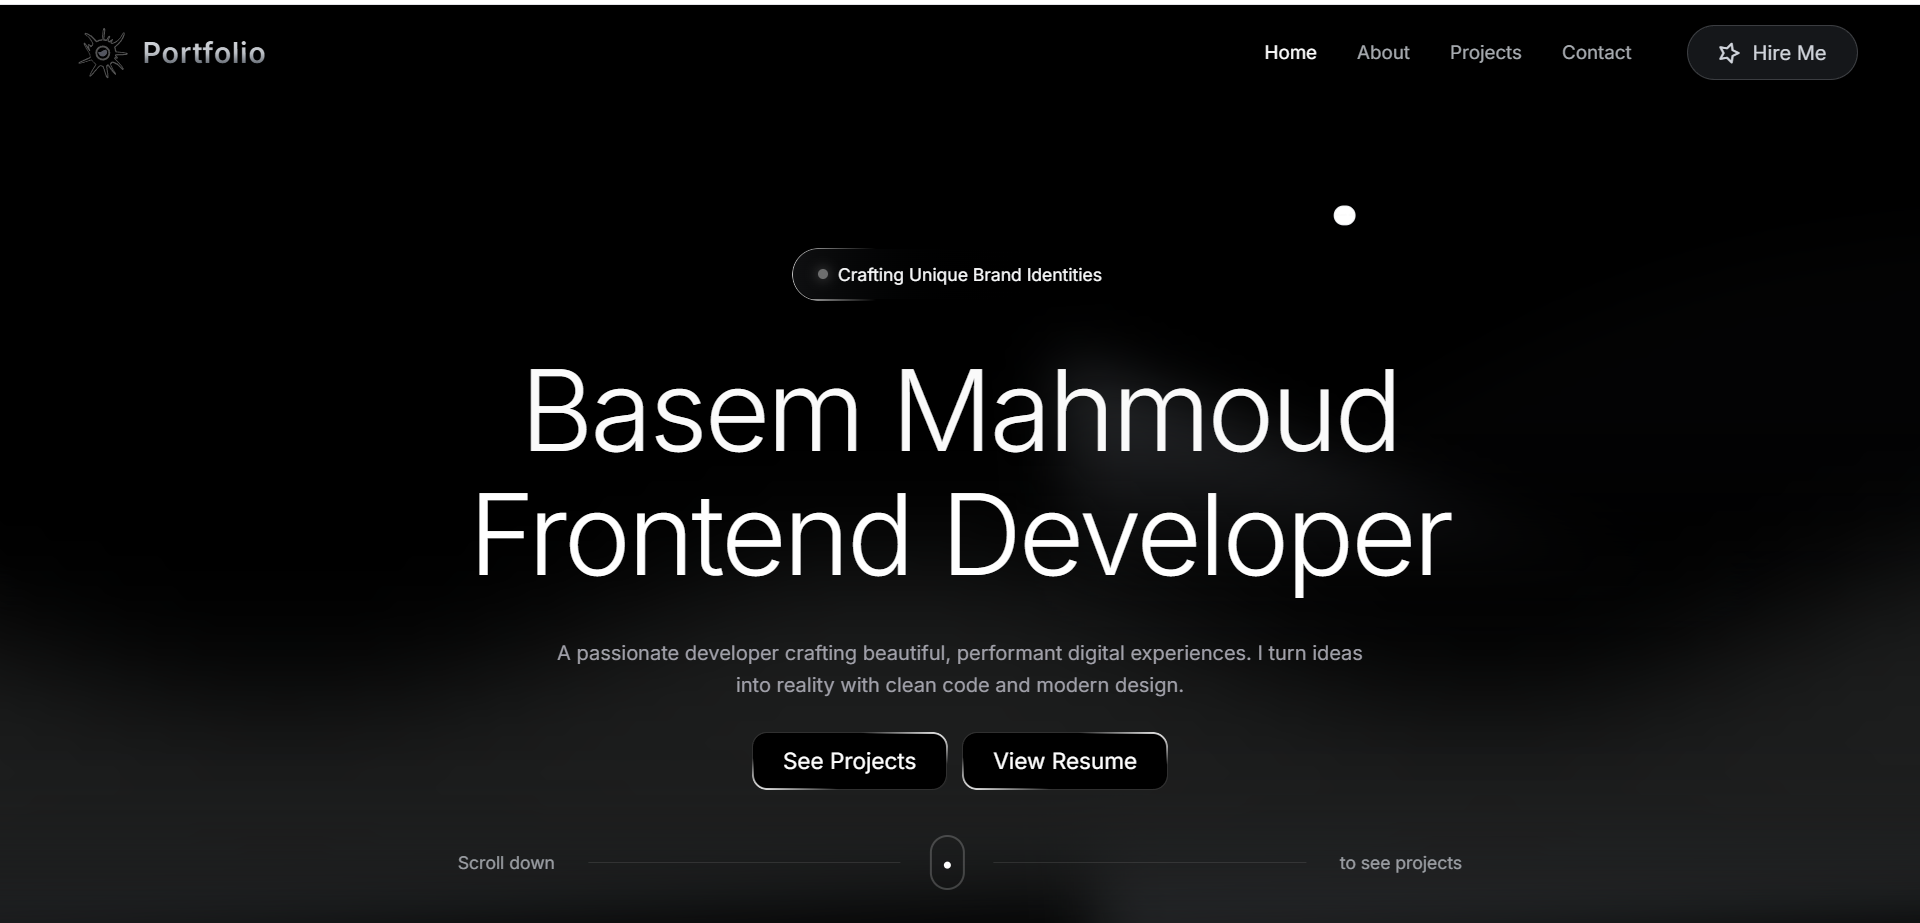
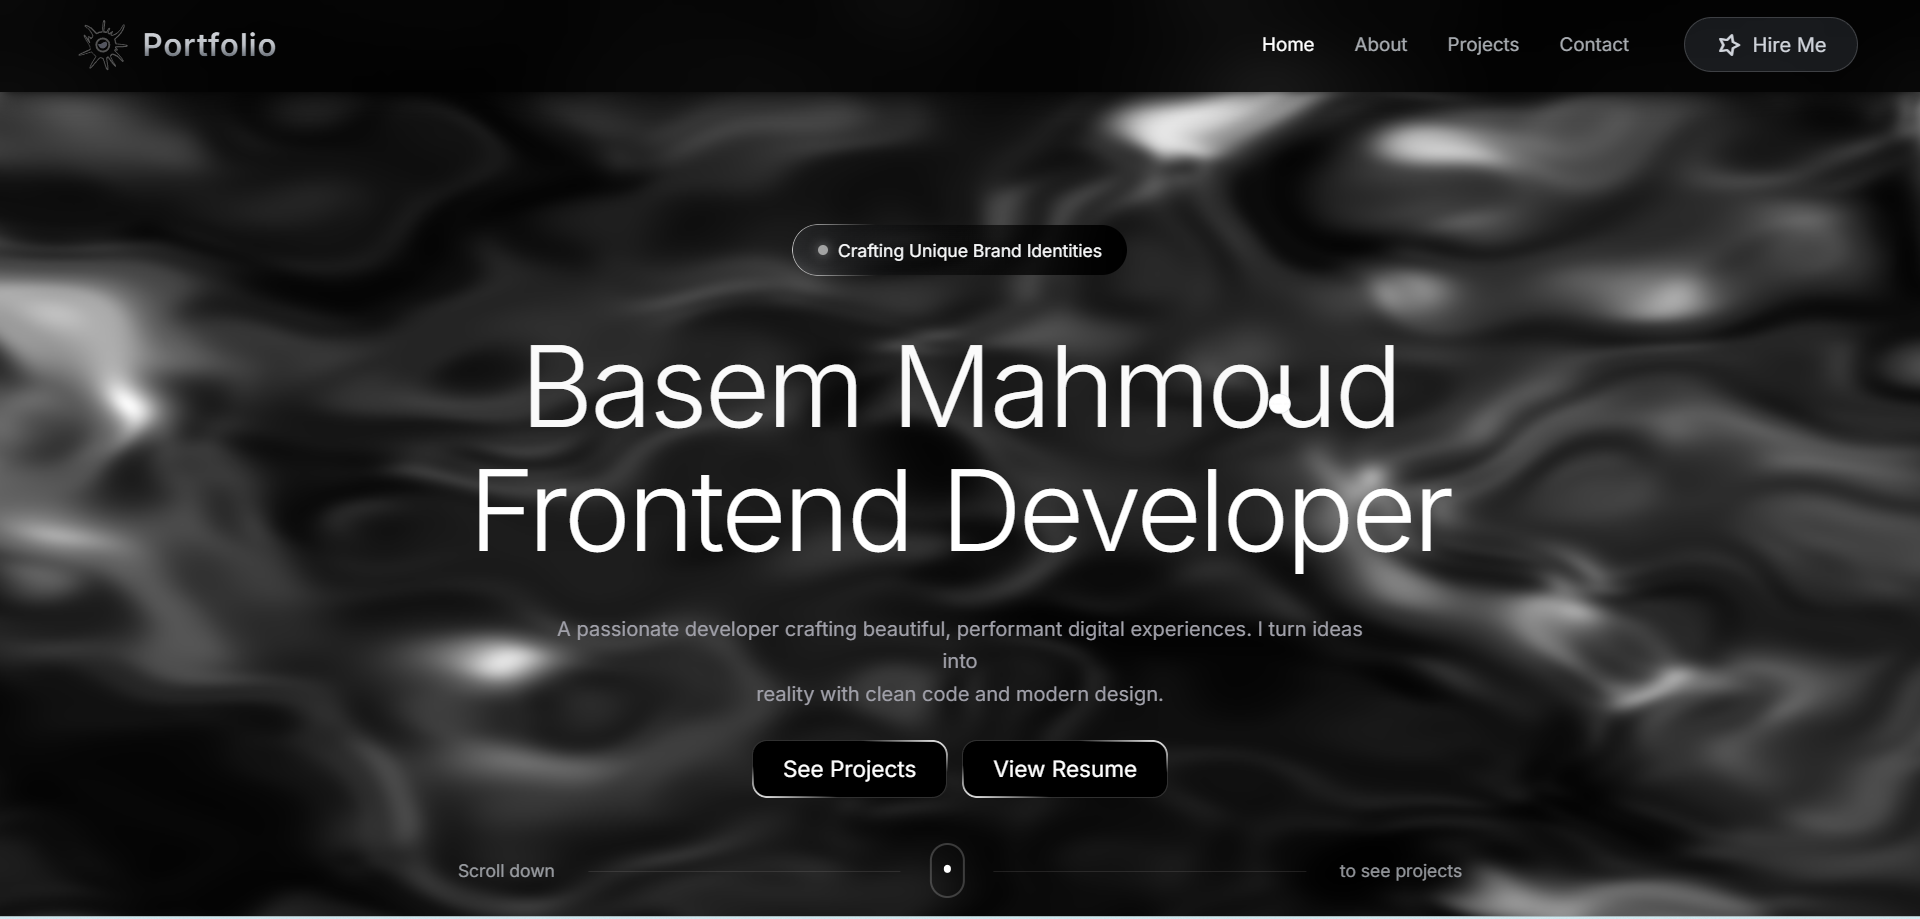
ubdate readme file

diff --git a/README.md b/README.md
@@ -9,7 +9,7 @@ This project showcases my skills, projects, and experience as a web developer.
 ---
 
 ## 🌐 Live Demo
-👉 [https://my-portfolio-nuzp26uvq-basem6s-projects.vercel.app/)
+👉 [https://my-portfolio-dquashc5l-basem6s-projects.vercel.app//)
 
 ---
 
